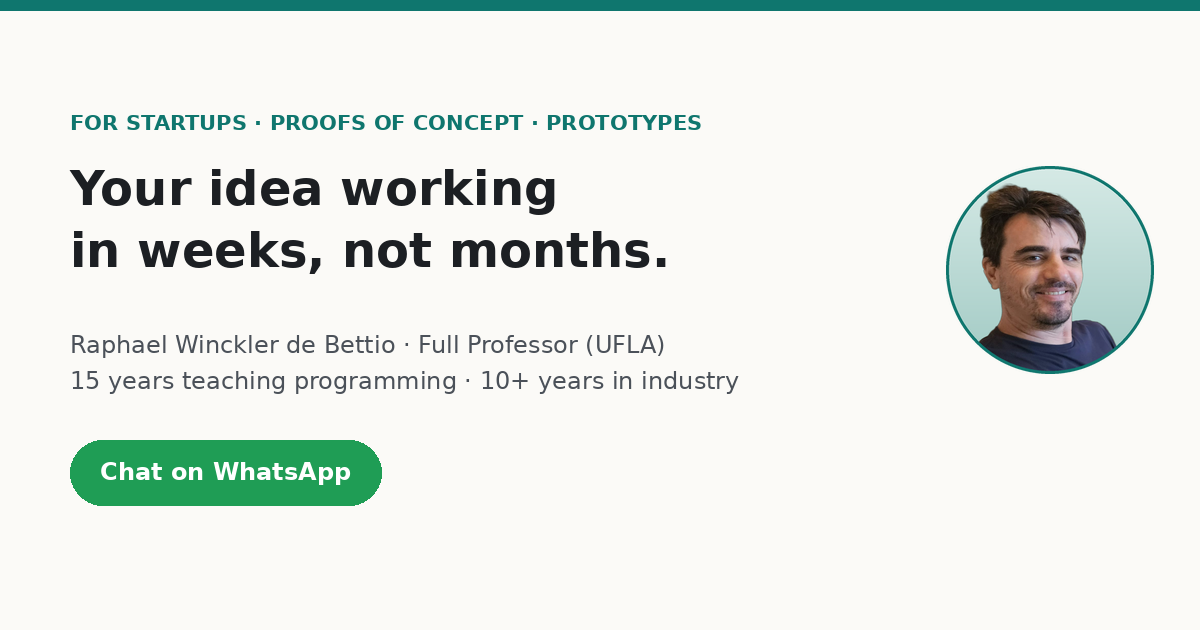
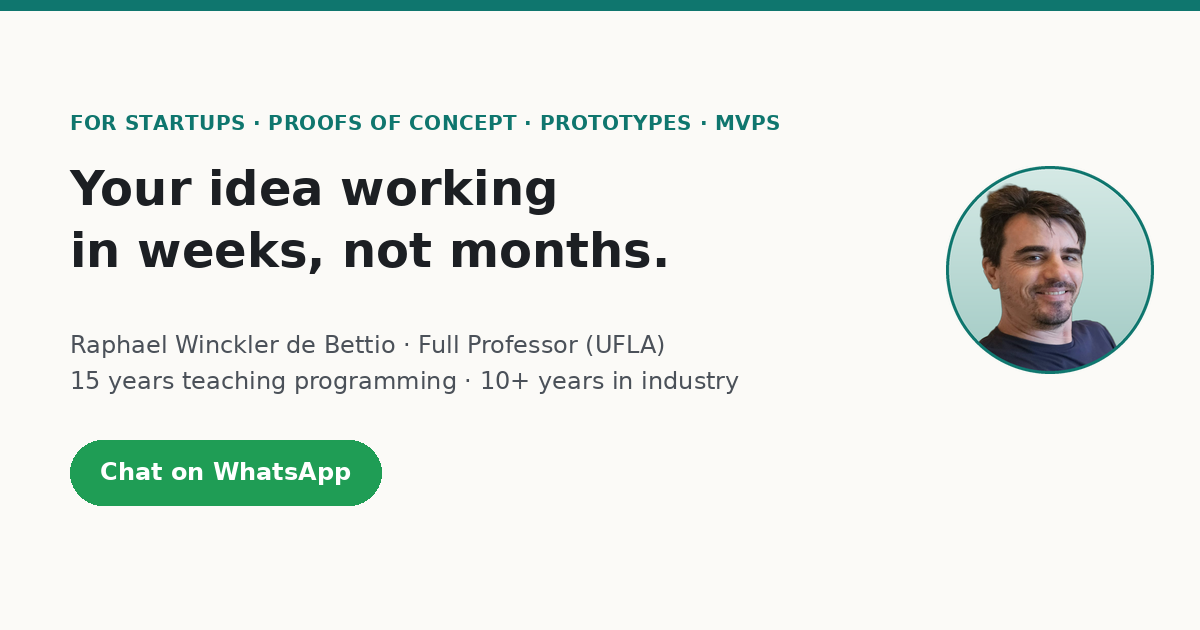
Inclui MVP no topo, títulos, 'Para quem é', README e imagens de compartilhamento

Changed region(s): [[0.0617, 0.181, 0.6475, 0.2111]]

diff --git a/index.html b/index.html
@@ -3,9 +3,9 @@
 <head>
 <meta charset="utf-8">
 <meta name="viewport" content="width=device-width, initial-scale=1">
-<title>Raphael Winckler de Bettio — Provas de Conceito e Protótipos</title>
-<meta name="description" content="Provas de conceito e protótipos para startups e empresas validarem ideias, testarem com usuários ou captarem recursos — em semanas, com escopo fechado.">
-<meta property="og:title" content="Raphael Winckler de Bettio — Provas de Conceito e Protótipos">
+<title>Raphael Winckler de Bettio — Provas de Conceito, Protótipos e MVPs</title>
+<meta name="description" content="Provas de conceito, protótipos e MVPs para startups e empresas validarem ideias, testarem com usuários, captarem recursos ou chegarem ao mercado — com escopo fechado.">
+<meta property="og:title" content="Raphael Winckler de Bettio — Provas de Conceito, Protótipos e MVPs">
 <meta property="og:description" content="Sua ideia funcionando em semanas, para validar, testar ou captar recursos.">
 <meta property="og:type" content="website">
 <link rel="canonical" href="https://raphaelwb.github.io/">
@@ -53,9 +53,9 @@
 <!-- Hero -->
 <section class="hero">
   <div class="wrap">
-    <div class="eyebrow">Para startups · Provas de conceito · Protótipos</div>
+    <div class="eyebrow">Para startups · Provas de conceito · Protótipos · MVPs</div>
     <h1>Sua ideia funcionando<br>em <em>semanas</em>, não em meses.</h1>
-    <p class="lead">Construo provas de conceito e protótipos para startups e empresas que precisam tirar uma ideia do papel com rapidez — seja para validar uma hipótese, testar com usuários reais ou apresentar algo concreto a investidores e editais de fomento. Você recebe um sistema funcionando, com código, documentação e uma visão clara do que foi provado.</p>
+    <p class="lead">Construo provas de conceito, protótipos e MVPs para startups e empresas que precisam tirar uma ideia do papel com rapidez — seja para validar uma hipótese, testar com usuários reais, apresentar algo concreto a investidores e editais de fomento ou colocar a primeira versão no mercado. Você recebe um sistema funcionando, com código, documentação e uma visão clara do que foi provado.</p>
     <div class="actions">
       <a class="btn btn-wa js-wa" href="#contato"><svg><use href="#i-wa"/></svg>Conversar no WhatsApp</a>
       <a class="btn btn-ghost" href="#pacotes">Ver pacotes</a>
@@ -77,8 +77,8 @@
 <section class="alt" id="para-quem">
   <div class="wrap">
     <div class="eyebrow">Para quem é</div>
-    <h2>Feito para startups que precisam provar a ideia</h2>
-    <p class="section-intro">Uma prova de conceito responde a uma pergunta só: <strong>isso funciona?</strong> É o passo mais barato para descobrir — antes de contratar um time, gastar o investimento ou prometer o que ainda não foi testado.</p>
+    <h2>Feito para startups que precisam tirar a ideia do papel</h2>
+    <p class="section-intro">Cada etapa responde a uma pergunta: a prova de conceito, <strong>isso funciona?</strong>; o protótipo, <strong>como seria usado?</strong>; o MVP, <strong>alguém paga por isso?</strong> Começar pela pergunta certa é o caminho mais barato — antes de contratar um time, gastar o investimento ou prometer o que ainda não foi testado.</p>
     <div class="grid grid-3">
       <div class="card">
         <div class="icon"><svg viewBox="0 0 24 24" fill="none" stroke="currentColor" stroke-width="2" stroke-linecap="round" stroke-linejoin="round"><circle cx="12" cy="8" r="4"/><path d="M4 21c0-4 4-6 8-6s8 2 8 6"/></svg></div>

diff --git a/en/index.html b/en/index.html
@@ -3,9 +3,9 @@
 <head>
 <meta charset="utf-8">
 <meta name="viewport" content="width=device-width, initial-scale=1">
-<title>Raphael Winckler de Bettio — Proofs of Concept and Prototypes</title>
-<meta name="description" content="Proofs of concept and prototypes for startups and companies to validate ideas, test with users or raise funding — in weeks, with a fixed scope.">
-<meta property="og:title" content="Raphael Winckler de Bettio — Proofs of Concept and Prototypes">
+<title>Raphael Winckler de Bettio — Proofs of Concept, Prototypes and MVPs</title>
+<meta name="description" content="Proofs of concept, prototypes and MVPs for startups and companies to validate ideas, test with users, raise funding or reach the market — with a fixed scope.">
+<meta property="og:title" content="Raphael Winckler de Bettio — Proofs of Concept, Prototypes and MVPs">
 <meta property="og:description" content="Your idea working in weeks — to validate, test or raise funding.">
 <meta property="og:type" content="website">
 <link rel="canonical" href="https://raphaelwb.github.io/en/">
@@ -53,9 +53,9 @@
 <!-- Hero -->
 <section class="hero">
   <div class="wrap">
-    <div class="eyebrow">For startups · Proofs of concept · Prototypes</div>
+    <div class="eyebrow">For startups · Proofs of concept · Prototypes · MVPs</div>
     <h1>Your idea working<br>in <em>weeks</em>, not months.</h1>
-    <p class="lead">I build proofs of concept and prototypes for startups and companies that need to get an idea off the ground quickly — whether to validate a hypothesis, test with real users, or show something concrete to investors and grant programs. You get a working system, with code, documentation and a clear view of what has been proven.</p>
+    <p class="lead">I build proofs of concept, prototypes and MVPs for startups and companies that need to get an idea off the ground quickly — whether to validate a hypothesis, test with real users, show something concrete to investors and grant programs, or put a first version on the market. You get a working system, with code, documentation and a clear view of what has been proven.</p>
     <div class="actions">
       <a class="btn btn-wa js-wa" href="#contact"><svg><use href="#i-wa"/></svg>Chat on WhatsApp</a>
       <a class="btn btn-ghost" href="#packages">See packages</a>
@@ -77,8 +77,8 @@
 <section class="alt" id="who">
   <div class="wrap">
     <div class="eyebrow">Who it's for</div>
-    <h2>Built for startups that need to prove their idea</h2>
-    <p class="section-intro">A proof of concept answers a single question: <strong>does it work?</strong> It is the cheapest way to find out — before hiring a team, spending the investment, or promising what hasn't been tested yet.</p>
+    <h2>Built for startups that need to get their idea off the ground</h2>
+    <p class="section-intro">Each stage answers one question: the proof of concept, <strong>does it work?</strong>; the prototype, <strong>how would it be used?</strong>; the MVP, <strong>will anyone pay for it?</strong> Starting with the right question is the cheapest path — before hiring a team, spending the investment, or promising what hasn't been tested yet.</p>
     <div class="grid grid-3">
       <div class="card">
         <div class="icon"><svg viewBox="0 0 24 24" fill="none" stroke="currentColor" stroke-width="2" stroke-linecap="round" stroke-linejoin="round"><circle cx="12" cy="8" r="4"/><path d="M4 21c0-4 4-6 8-6s8 2 8 6"/></svg></div>

diff --git a/README.md b/README.md
@@ -1,6 +1,6 @@
-# Raphael Winckler de Bettio — Provas de Conceito e Protótipos
+# Raphael Winckler de Bettio — Provas de Conceito, Protótipos e MVPs
 
-Ajudo startups e empresas a tirar ideias do papel com rapidez: provas de conceito e protótipos funcionando em semanas, para validar uma hipótese, testar com usuários reais ou apresentar algo concreto a investidores e editais de fomento.
+Ajudo startups e empresas a tirar ideias do papel com rapidez: provas de conceito, protótipos e MVPs, para validar uma hipótese, testar com usuários reais, apresentar algo concreto a investidores e editais de fomento ou colocar a primeira versão no mercado.
 
 Sou Professor Titular do Departamento de Computação Aplicada da Universidade Federal de Lavras (UFLA), ensino programação há 15 anos e tenho mais de 10 anos de experiência no mercado de software.
 
